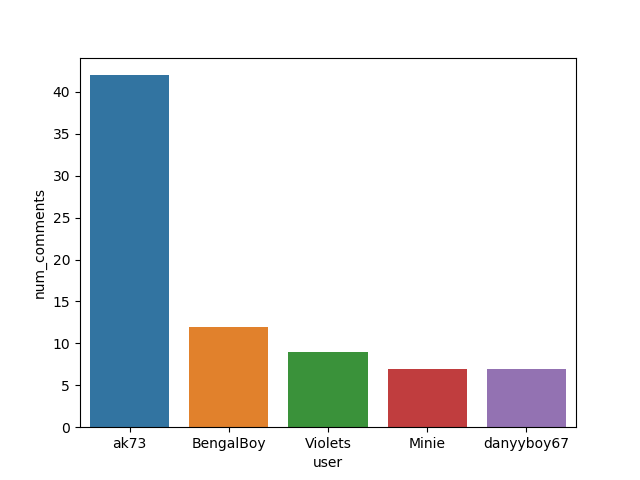
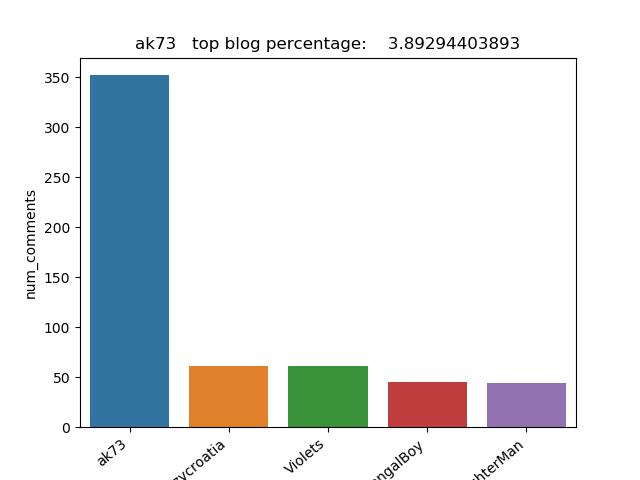
added multithread
processing to the scraper

diff --git a/scrape.py b/scrape.py
@@ -1,7 +1,6 @@
 #!/usr/bin/python2.7
 
-from joblib import Parallel, delayed
-import multiprocessing
+from multiprocessing import Pool
 import urllib2
 import re
 import sys
@@ -13,6 +12,8 @@ import matplotlib.pyplot as plt
 import requests
 from BaseHTTPServer import BaseHTTPRequestHandler, HTTPServer
 import os
+from time import sleep
+
 
 
 
@@ -23,7 +24,7 @@ def download(url, user_agent='wswp', num_retries=2):
     try:
         html = urllib2.urlopen(request).read()
     except urllib2.URLError as e:
-        print 'Download error:', e.reason
+        print ('Download error:', e.reason)
         html = None
         if num_retries > 0:
             if hasattr(e, 'code') and 500 <= e.code < 600:
@@ -90,24 +91,22 @@ def blogplot(user='ak73'):
     blogs_text = re.findall('<span class="info">(.*?)</span>', html)
     numblogs = filter(str.isdigit, blogs_text.__str__())
     soup = BeautifulSoup(html, 'html.parser')
-    num_pages = (int(numblogs) / 6) + 1
+    num_pages = (int(numblogs) / 6) +1
     page_blogs = soup.find(attrs={'class': 'blogPosts'})
     comments_db = pd.DataFrame(columns=['user', 'num_comments'])
     top_blog = 0
-
     blogs = page_blogs.findAll('a')
 
     for blog in blogs:
         if blog.has_attr('rel') and blog.attrs['rel'] and blog.attrs['rel'][0].startswith('bookmark'):
             blog_link = 'https://tengaged.com' + blog.attrs['href'].__str__()
-            blog_html = download(blog_link)
-            soup = BeautifulSoup(blog_html)
+            blog_html = requests.get(blog_link).text
+            soup = BeautifulSoup(blog_html,"lxml")
 
             if re.findall('<span class="floated miniadrank">(.*?)</span>', blog_html):
                 top_blog += 1
 
             comments = soup.findAll(attrs={'blogPostComments'})
-
             for comment in comments:
                 tail = comment.find(attrs={'class': 'tail'})
                 cuser = tail.find('a').text.__str__()
@@ -118,51 +117,69 @@ def blogplot(user='ak73'):
                 else:
                     comments_db = comments_db.append({'user': cuser, 'num_comments': 1}, ignore_index=True)
 
-    def processBlogs(i):
-        print(i)
-        link = 'https://tengaged.com/blog/' + user + '/page/' + str(i)
-        html = download(link)
-        soup = BeautifulSoup(html, "lxml")
-
+    blog_links = ('https://tengaged.com/blog/' + user + '/page/' + str(i) for i in range(1, num_pages + 1))
+    ## first multi process
+    p = Pool(processes=10)
+    page_html = p.map(gethtml, blog_links)  ## passing blog_links as a generator
+    p.close()
+    blog_links = list()
+    for html in page_html:
+        soup = BeautifulSoup(html.text, "lxml")
         page_blogs = soup.find(attrs={'class': 'blogPosts'})
         blogs = page_blogs.findAll('a')
-
         for blog in blogs:
             if blog.has_attr('rel') and blog.attrs['rel'] and blog.attrs['rel'][0].startswith('bookmark'):
-                blog_link = 'https://tengaged.com' + blog.attrs['href'].__str__()
-                blog_html = download(blog_link)
-                soup = BeautifulSoup(blog_html, "lxml")
+                blog_links += ['https://tengaged.com' + blog.attrs['href'].__str__()]
 
-                if re.findall('<span class="floated miniadrank">(.*?)</span>', blog_html):
-                    top_blog += 1
+    p = Pool(processes=10)
+    blot_html_all = p.map(gethtml, blog_links)# passing blog_links as a generator
+    p.close()
 
-                comments = soup.findAll(attrs={'blogPostComments'})
+    top_blog = 0
+    comments = []
+    for blog_html in blot_html_all:
+        soup = BeautifulSoup(blog_html.text, "lxml")
+        if re.findall('<span class="floated miniadrank">(.*?)</span>', blog_html.text):
+            top_blog += 1
 
-                for comment in comments:
-                    tail = comment.find(attrs={'class': 'tail'})
-                    cuser = tail.find('a').text.__str__()
-                    if cuser in list(comments_db.user):
-                        index = comments_db.user[(comments_db.user == cuser)].index[0]
-                        current_count = comments_db.iloc[index].num_comments
-                        comments_db.set_value(index, 'num_comments', current_count + 1)
-                    else:
-                        comments_db = comments_db.append({'user': cuser, 'num_comments': 1}, ignore_index=True)
+        comments += [soup.findAll(attrs={'blogPostComments'})]
 
-    inputs = range(1,2)# range(1, min(num_pages + 1, 100))
-    num_cores = multiprocessing.cpu_count()
-    Parallel(n_jobs=num_cores)(delayed(processBlogs)(i) for i in inputs)
+    all_comments = (_ for blog_comment in comments for _ in blog_comment)
 
+    for comment in all_comments:
+        tail = comment.find(attrs={'class': 'tail'})
+        cuser = tail.find('a').text.__str__()
+        if cuser in list(comments_db.user):
+            index = comments_db.user[(comments_db.user == cuser)].index[0]
+            current_count = comments_db.iloc[index].num_comments
+            comments_db.set_value(index, 'num_comments', current_count + 1)
+        else:
+            comments_db = comments_db.append({'user': cuser, 'num_comments': 1}, ignore_index=True)
 
     comments_db.num_comments = comments_db.num_comments.astype(int)
-    top10 = (comments_db.nlargest(20, 'num_comments'))
-    top_blog_percentage = 100 * (float(top_blog) / (i * 6))
+    top10 = (comments_db.nlargest(5, 'num_comments'))
+    top_blog_percentage = 100 * (float(top_blog) / (num_pages * 6))
 
 
-    a = sns.barplot(top10.user, top10.num_comments).set_title(
-        user + '   top blog percentage:    ' + str(top_blog_percentage))
+    a = sns.barplot(top10.user, top10.num_comments)
+    a.set_title(user + '   top blog percentage:    ' + str(top_blog_percentage))
     b = a.axes
     b.set_xticklabels(b.get_xticklabels(), rotation=40, ha="right")
     plt.savefig('blog_data/' + user)
+
+def gethtml(url, user_agent='tblade' , num_retries = 5):
+    headers = {'User-agent': user_agent}
+    url_html = requests.get(url)
+    if url_html.ok:
+        return url_html
+    elif url_html.error:
+        print('Download error:', url_html.error.reason)
+        if num_retries > 0:
+            if hasattr(url_html.error, 'code') and 500 <= url_html.error.code < 600:
+                # retry 5XX HTTP errors
+                return gethtml(url, user_agent, num_retries - 1)
+
+
 
 
 def giftplot(user='ak73'):
@@ -195,6 +212,7 @@ def giftplot(user='ak73'):
     b = a.axes
     b.set_xticklabels(b.get_xticklabels(), rotation=40, ha="right")
     plt.savefig('gift_data/' + user)
+
 
 #blogplot('joe1110')
 #gameplot('joe1110')
